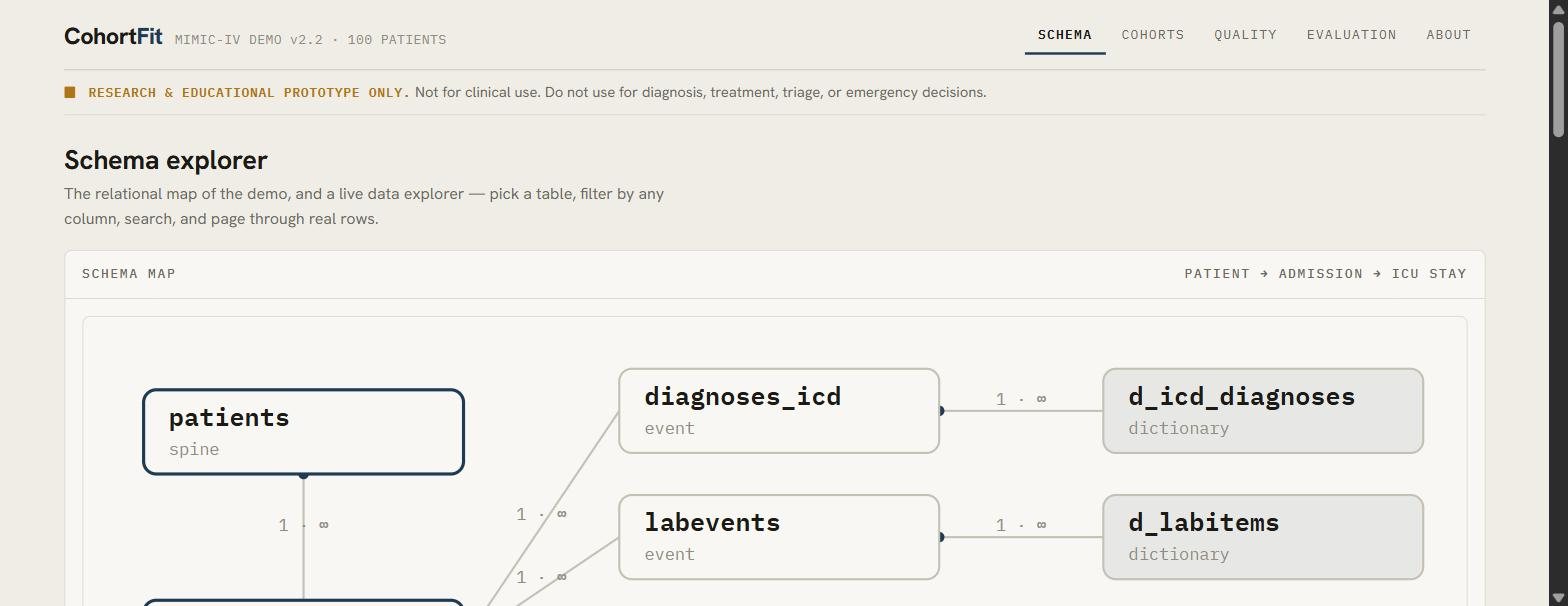
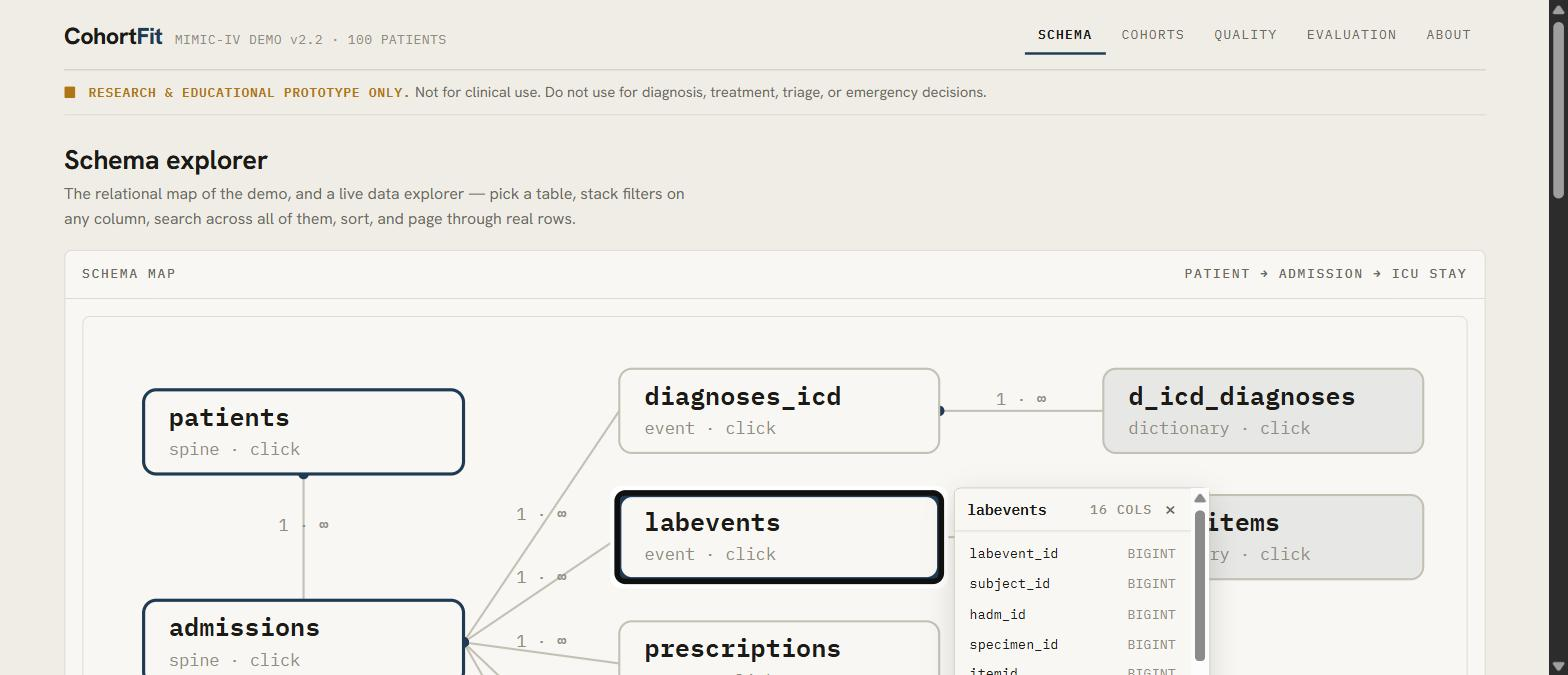
ERD: clickable tables — click a box to see its columns (name+type) in a popover; also loads that table in the explorer
- Erd.tsx: boxes are buttons (click/Enter); percentage-positioned column popover
  tracks the responsive SVG; selected box highlights; '· click' affordance
- schema page passes columnsByTable + onSelect(setSel) + selected(sel)
- globals.css: .erd-pop styles (Lab Ledger; shadow allowed on popovers)
- verified in-browser (labevents → 16 cols)

diff --git a/frontend/app/schema/Erd.tsx b/frontend/app/schema/Erd.tsx
@@ -1,12 +1,17 @@
 "use client";
 
+import { useState } from "react";
+
 // A hand-laid ER diagram of the core MIMIC-IV demo relationships. Not exhaustive —
 // it shows the spine (patient → admission → ICU stay) and how event/dictionary tables
-// hang off it, so a researcher sees the join paths at a glance.
+// hang off it. Boxes are clickable: click one to see its columns and load it below.
 
 type Box = { id: string; label: string; x: number; y: number; kind: "spine" | "fact" | "dict" };
 type Edge = { from: string; to: string };
+export type ColumnInfo = { name: string; type: string };
 
+const VW = 648;
+const VH = 512;
 const W = 152;
 const H = 40;
 
@@ -14,17 +19,14 @@ const BOXES: Box[] = [
   { id: "patients", label: "patients", x: 24, y: 30, kind: "spine" },
   { id: "admissions", label: "admissions", x: 24, y: 130, kind: "spine" },
   { id: "icustays", label: "icustays", x: 24, y: 300, kind: "spine" },
-
   { id: "diagnoses_icd", label: "diagnoses_icd", x: 250, y: 20, kind: "fact" },
   { id: "labevents", label: "labevents", x: 250, y: 80, kind: "fact" },
   { id: "prescriptions", label: "prescriptions", x: 250, y: 140, kind: "fact" },
   { id: "emar", label: "emar", x: 250, y: 200, kind: "fact" },
   { id: "transfers", label: "transfers", x: 250, y: 260, kind: "fact" },
-
   { id: "chartevents", label: "chartevents", x: 250, y: 330, kind: "fact" },
   { id: "inputevents", label: "inputevents", x: 250, y: 390, kind: "fact" },
   { id: "outputevents", label: "outputevents", x: 250, y: 450, kind: "fact" },
-
   { id: "d_icd_diagnoses", label: "d_icd_diagnoses", x: 480, y: 20, kind: "dict" },
   { id: "d_labitems", label: "d_labitems", x: 480, y: 80, kind: "dict" },
   { id: "d_items", label: "d_items", x: 480, y: 360, kind: "dict" },
@@ -49,17 +51,34 @@ const EDGES: Edge[] = [
 const byId = (id: string) => BOXES.find((b) => b.id === id)!;
 
 function edgePath(a: Box, b: Box) {
-  // vertical (same column) → bottom-center to top-center; else right-center to left-center
-  if (Math.abs(a.x - b.x) < 8) {
-    return { x1: a.x + W / 2, y1: a.y + H, x2: b.x + W / 2, y2: b.y };
-  }
+  if (Math.abs(a.x - b.x) < 8) return { x1: a.x + W / 2, y1: a.y + H, x2: b.x + W / 2, y2: b.y };
   return { x1: a.x + W, y1: a.y + H / 2, x2: b.x, y2: b.y + H / 2 };
 }
 
-export function Erd() {
+export function Erd({
+  columnsByTable = {},
+  onSelect,
+  selected,
+}: {
+  columnsByTable?: Record<string, ColumnInfo[]>;
+  onSelect?: (table: string) => void;
+  selected?: string | null;
+}) {
+  const [open, setOpen] = useState<string | null>(null);
+  const openBox = open ? byId(open) : null;
+  const cols = open ? columnsByTable[open] ?? [] : [];
+
+  // Popover placed by percentage of the viewBox so it tracks the responsive SVG.
+  const popStyle = openBox
+    ? {
+        left: `${((openBox.x + W + 6) / VW) * 100}%`,
+        top: `${(openBox.y / VH) * 100}%`,
+      }
+    : undefined;
+
   return (
-    <div className="tablewrap" style={{ padding: 8 }}>
-      <svg viewBox="0 0 648 512" width="100%" role="img" aria-label="Entity relationship diagram" style={{ minWidth: 560 }}>
+    <div className="erd-wrap tablewrap" style={{ position: "relative", padding: 8 }}>
+      <svg viewBox={`0 0 ${VW} ${VH}`} width="100%" role="img" aria-label="Entity relationship diagram" style={{ minWidth: 560, display: "block" }}>
         {EDGES.map((e, i) => {
           const p = edgePath(byId(e.from), byId(e.to));
           const mx = (p.x1 + p.x2) / 2;
@@ -73,19 +92,43 @@ export function Erd() {
           );
         })}
         {BOXES.map((b) => {
+          const isSel = selected === b.id || open === b.id;
           const fill = b.kind === "dict" ? "color-mix(in srgb, var(--accent) 8%, var(--surface))" : "var(--surface)";
-          const stroke = b.kind === "spine" ? "var(--accent)" : "var(--line-strong)";
+          const stroke = isSel ? "var(--accent)" : b.kind === "spine" ? "var(--accent)" : "var(--line-strong)";
           return (
-            <g key={b.id}>
-              <rect x={b.x} y={b.y} width={W} height={H} rx={6} fill={fill} stroke={stroke} strokeWidth={b.kind === "spine" ? 1.5 : 1} />
+            <g key={b.id} style={{ cursor: "pointer" }} role="button" tabIndex={0}
+               aria-label={`${b.label} — show columns`}
+               onClick={() => { setOpen(open === b.id ? null : b.id); onSelect?.(b.id); }}
+               onKeyDown={(e) => { if (e.key === "Enter" || e.key === " ") { setOpen(open === b.id ? null : b.id); onSelect?.(b.id); } }}>
+              <rect x={b.x} y={b.y} width={W} height={H} rx={6} fill={fill} stroke={stroke} strokeWidth={isSel ? 2 : b.kind === "spine" ? 1.5 : 1} />
               <text x={b.x + 12} y={b.y + 17} fontFamily="var(--mono)" fontSize={12} fontWeight={600} fill="var(--ink)">{b.label}</text>
               <text x={b.x + 12} y={b.y + 31} fontFamily="var(--mono)" fontSize={8} fill="var(--faint)">
-                {b.kind === "dict" ? "dictionary" : b.kind === "spine" ? "spine" : "event"}
+                {b.kind === "dict" ? "dictionary · click" : b.kind === "spine" ? "spine · click" : "event · click"}
               </text>
             </g>
           );
         })}
       </svg>
+
+      {openBox && (
+        <div className="erd-pop" style={popStyle} role="dialog" aria-label={`${openBox.label} columns`}>
+          <div className="erd-pop-h">
+            <span className="mono">{openBox.label}</span>
+            <span className="lbl">{cols.length} cols</span>
+            <button className="erd-pop-x" onClick={() => setOpen(null)} aria-label="Close">×</button>
+          </div>
+          <div className="erd-pop-b">
+            {cols.length === 0 && <div className="muted" style={{ fontSize: 12 }}>Loading columns…</div>}
+            {cols.map((c) => (
+              <div className="erd-col" key={c.name}>
+                <span>{c.name}</span>
+                <span className="erd-col-t">{c.type}</span>
+              </div>
+            ))}
+          </div>
+          <div className="erd-pop-f lbl">loaded below ↓</div>
+        </div>
+      )}
     </div>
   );
 }

diff --git a/frontend/app/globals.css b/frontend/app/globals.css
@@ -107,6 +107,20 @@ code{font-family:var(--mono);font-size:12px;line-height:1.65;color:var(--ink);
 .gt tr:hover td{background:var(--surface-2)}
 .gt .num{text-align:right}
 .tablewrap{overflow-x:auto;border:1px solid var(--line);border-radius:var(--rc)}
+
+/* clickable ERD column popover */
+.erd-pop{position:absolute;z-index:6;min-width:184px;max-width:240px;max-height:260px;overflow:auto;
+  background:var(--surface);border:1px solid var(--line-strong);border-radius:var(--rc);box-shadow:0 8px 24px rgba(27,26,23,.14)}
+.erd-pop-h{display:flex;align-items:center;gap:8px;padding:8px 10px;border-bottom:1px solid var(--line);position:sticky;top:0;background:var(--surface)}
+.erd-pop-h .mono{font-weight:600;font-size:12px}
+.erd-pop-h .lbl{margin-left:auto}
+.erd-pop-x{border:0;background:transparent;cursor:pointer;font-size:16px;line-height:1;color:var(--muted);padding:0 2px}
+.erd-pop-x:hover{color:var(--ink)}
+.erd-pop-b{padding:6px 4px}
+.erd-col{display:flex;justify-content:space-between;gap:10px;padding:4px 8px;font-family:var(--mono);font-size:11px;border-radius:3px}
+.erd-col:hover{background:var(--surface-2)}
+.erd-col-t{color:var(--faint)}
+.erd-pop-f{padding:6px 10px;border-top:1px solid var(--line);text-align:right}
 .dim{font-family:var(--mono);font-size:10.5px;letter-spacing:.06em;text-transform:uppercase;color:var(--muted)}
 .st{font-family:var(--mono);font-size:10.5px;letter-spacing:.06em;text-transform:uppercase;font-weight:600;white-space:nowrap}
 .dotr{color:var(--danger)} .dota{color:var(--warn)} .dotg{color:var(--ok)}

diff --git a/frontend/app/schema/page.tsx b/frontend/app/schema/page.tsx
@@ -32,6 +32,10 @@ export default function SchemaPage() {
 
   const info = tables.find((t) => t.table === sel);
   const columns = useMemo(() => toColumnMeta(info?.columns ?? []), [info]);
+  const columnsByTable = useMemo(
+    () => Object.fromEntries(tables.map((t) => [t.table, t.columns])),
+    [tables]
+  );
 
   // The Schema page's only backend-specific glue: map the generic explorer params onto
   // api.explore's string query. Everything richer is built on top of this single contract.
@@ -79,7 +83,7 @@ export default function SchemaPage() {
           <span className="lbl">Schema map</span>
           <span className="lbl">patient → admission → ICU stay</span>
         </div>
-        <div className="panel-b"><Erd /></div>
+        <div className="panel-b"><Erd columnsByTable={columnsByTable} onSelect={setSel} selected={sel} /></div>
       </section>
 
       <div className="grid2" style={{ gridTemplateColumns: "260px 1fr" }}>
